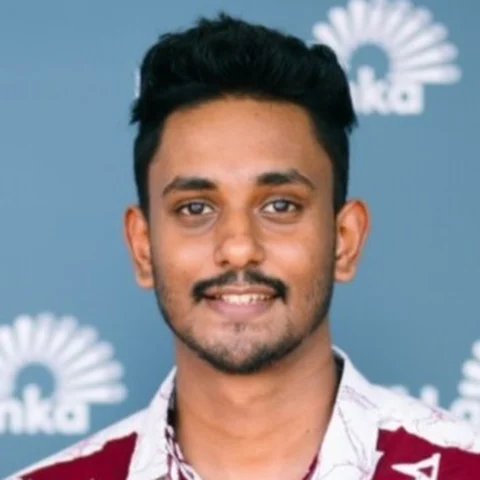
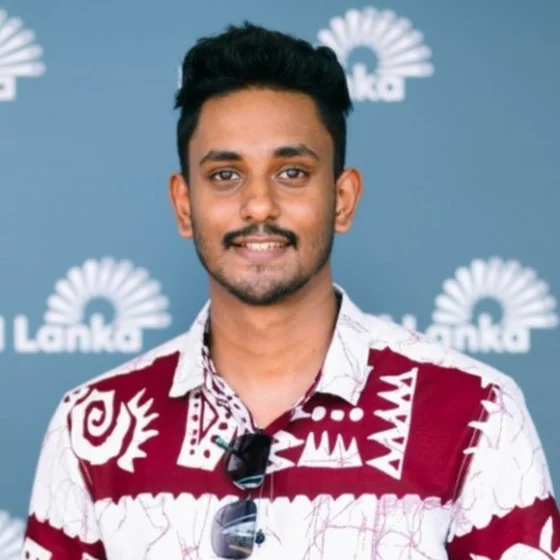
Use a wider crop for the profile photo
Claude-Session: https://claude.ai/code/session_01SmpLdBFjdHPhkJLUmVXJhK

diff --git a/index.html b/index.html
@@ -75,7 +75,7 @@
         </div>
         <figure class="hero-photo">
           <div class="ring">
-            <img src="lilan.webp" width="480" height="480" alt="Portrait of Lilan Jayasuriya" fetchpriority="high">
+            <img src="lilan.webp" width="560" height="560" alt="Portrait of Lilan Jayasuriya" fetchpriority="high">
           </div>
           <figcaption class="photo-badge"><svg class="ico" aria-hidden="true"><use href="#i-k8s"/></svg>7+ yrs · Azure &amp; DevOps</figcaption>
         </figure>
